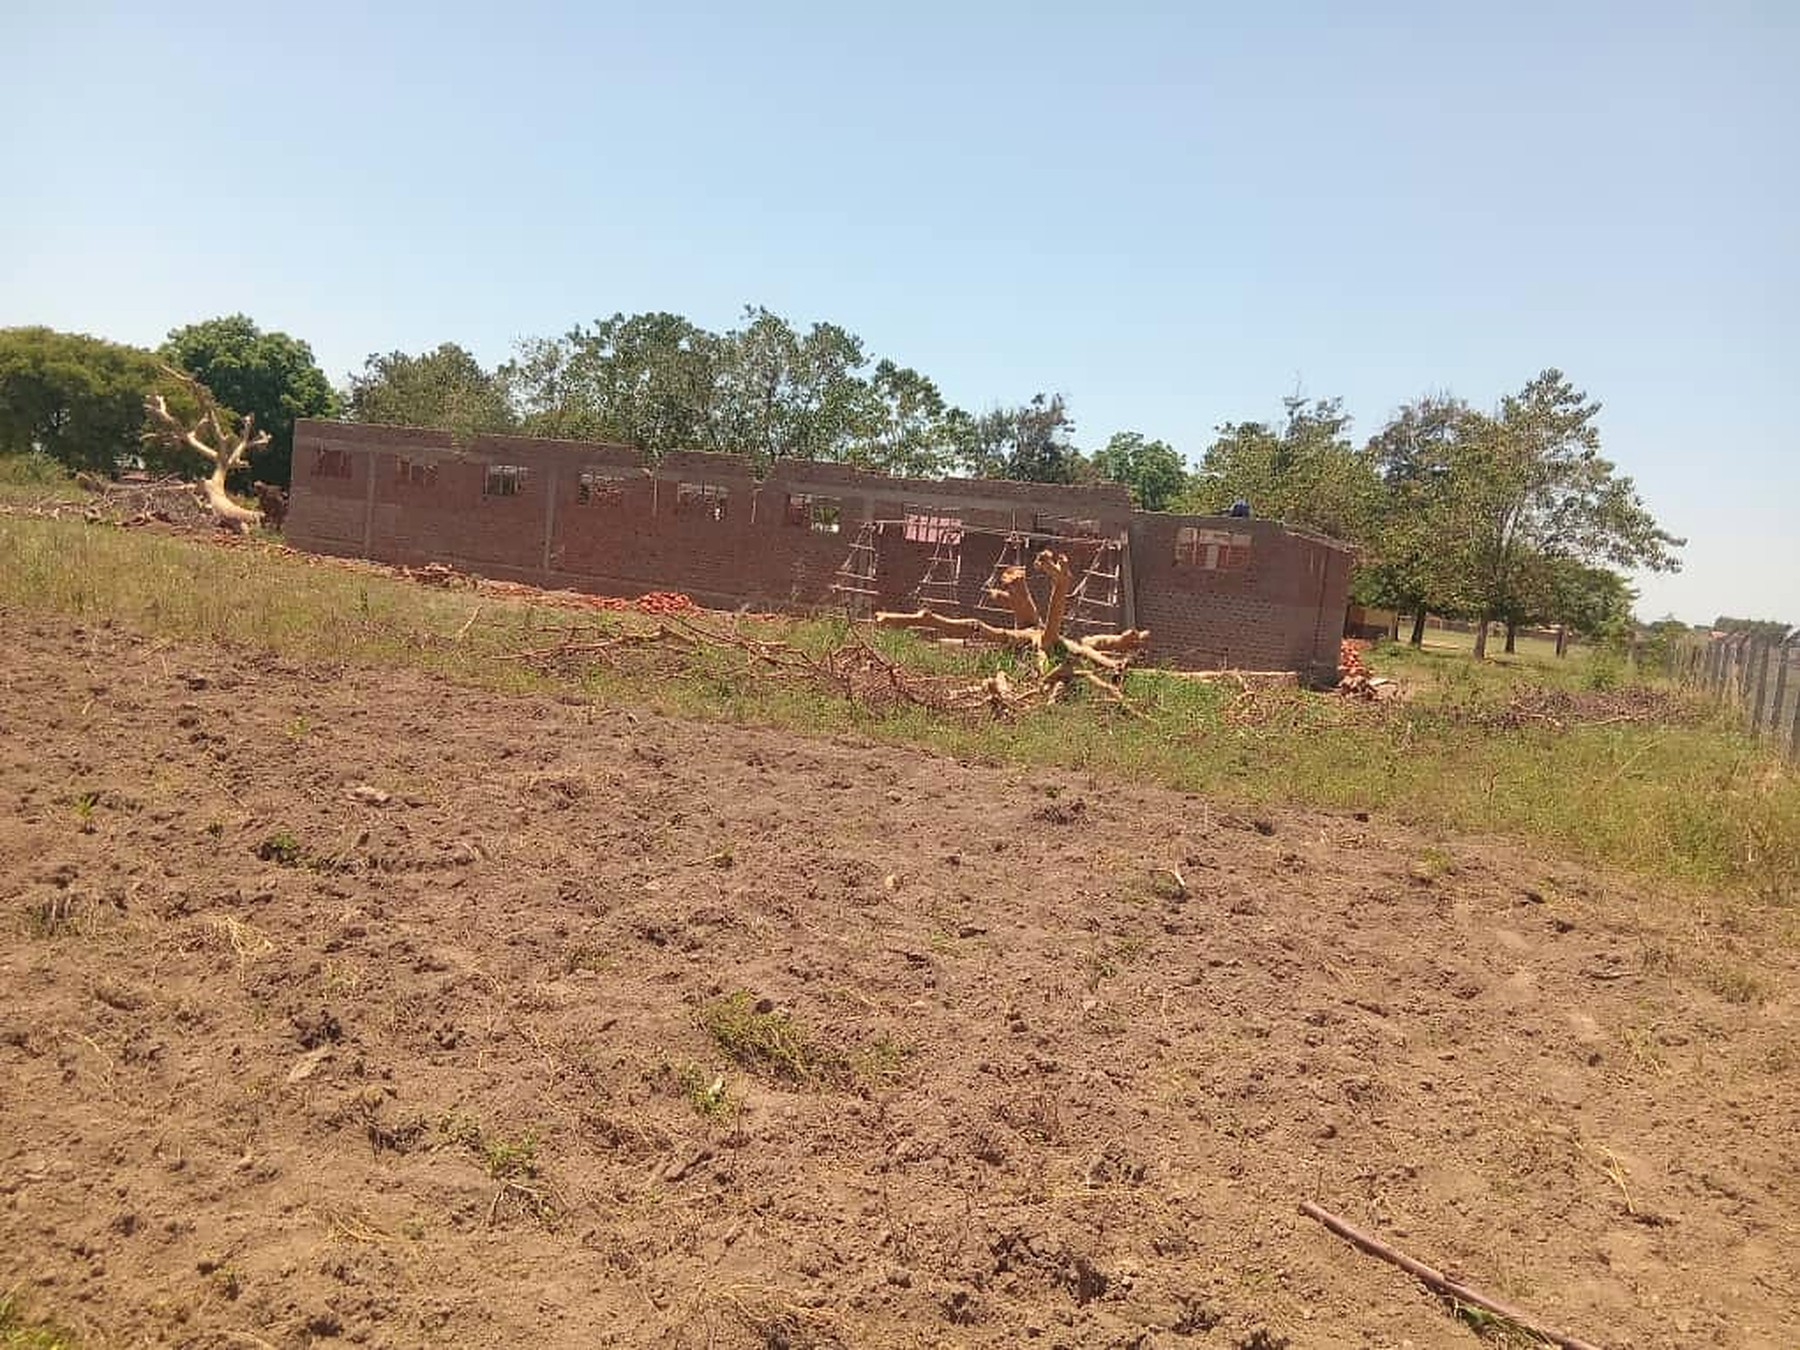
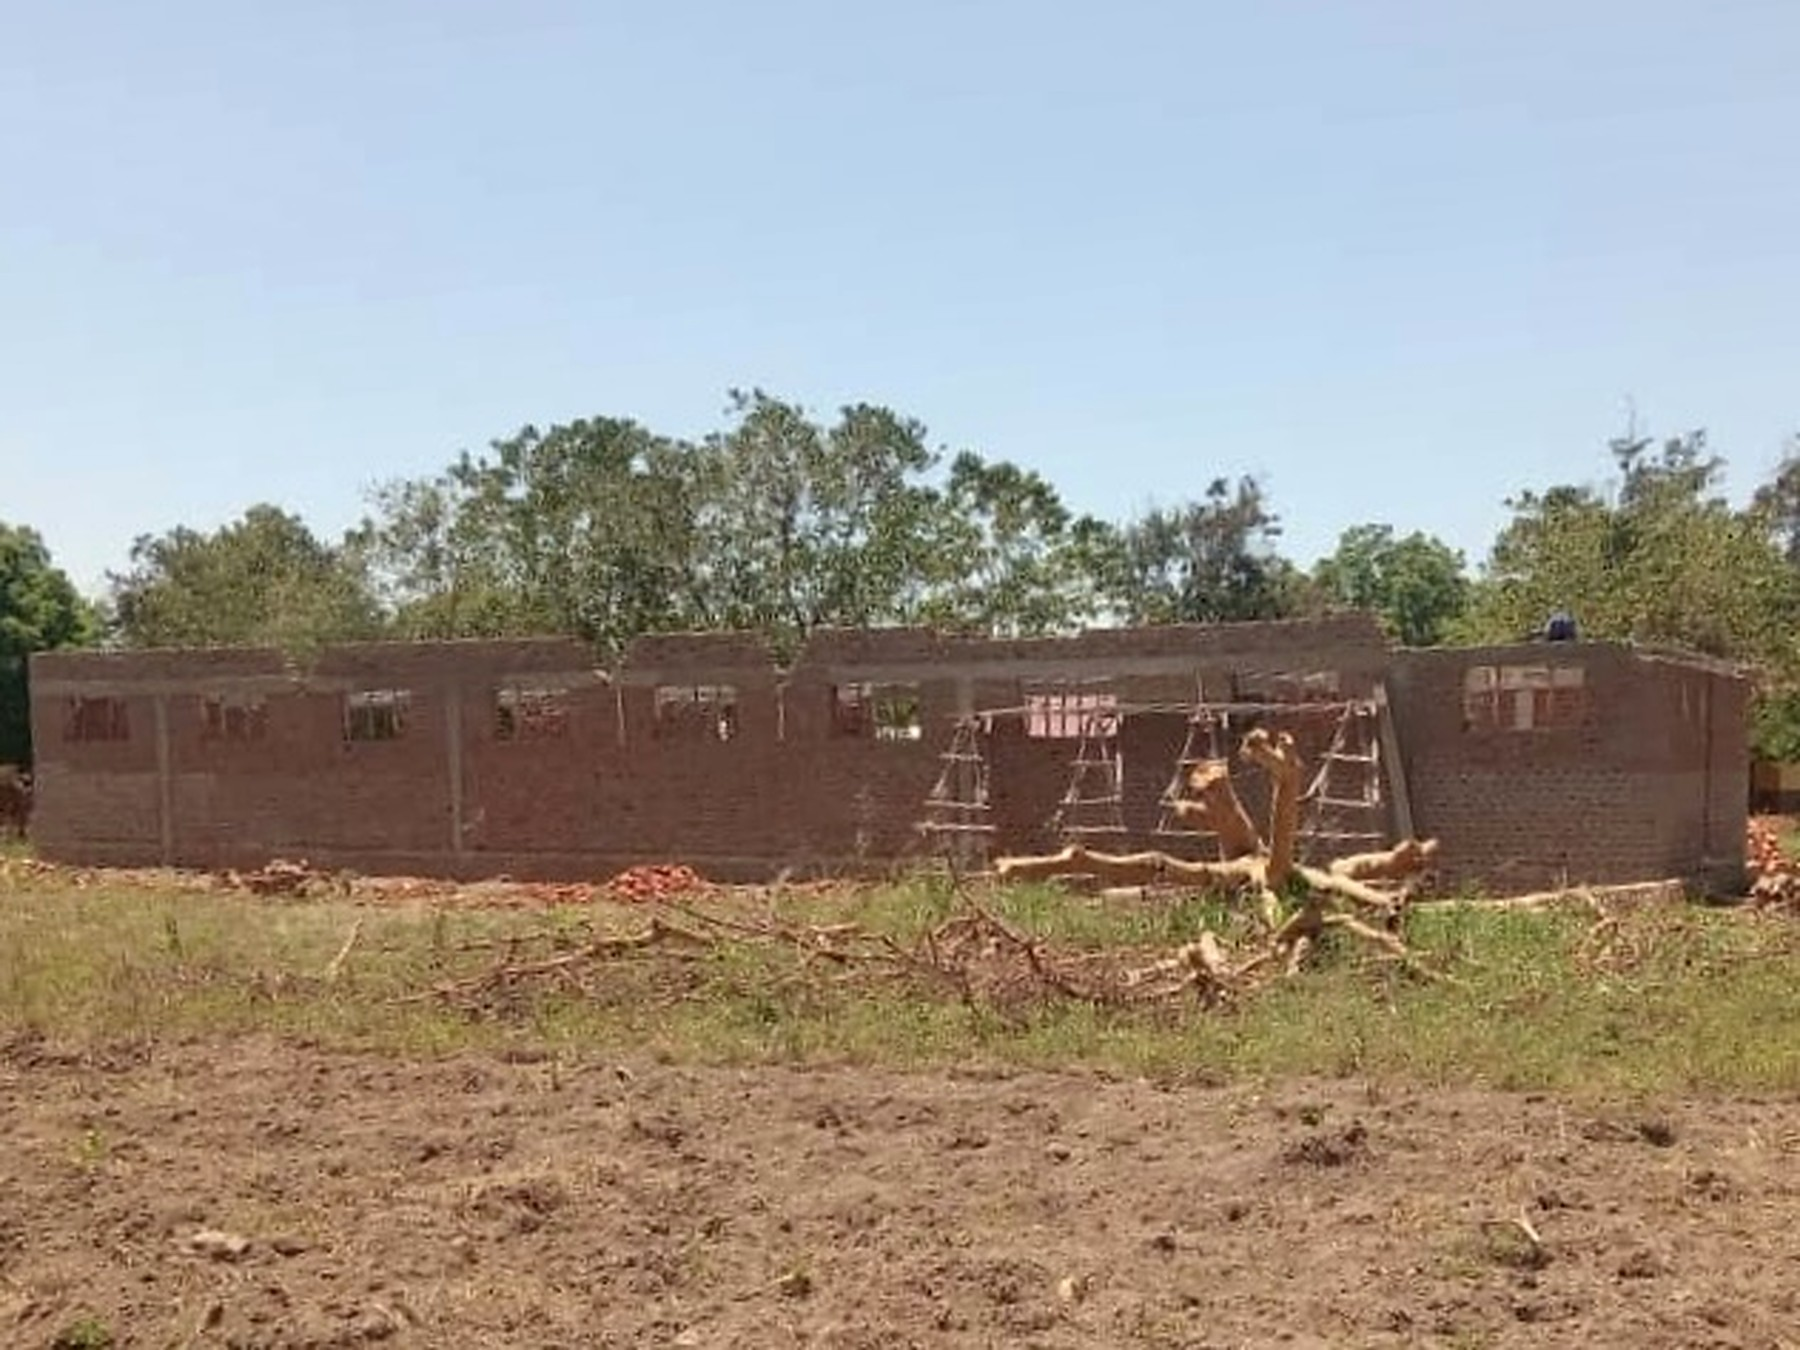
Swap in improved dormitory construction photos
Replaced progress photos 1, 2, and 3 with better versions the user
sent (photo 3 is a different shot entirely — brick walls with steel
reinforcement columns for the roof, replacing the close-up of a
builder on the wall). Same light enhancement pass applied for
consistency across the gallery. Photos 4 and 5 unchanged.

Claude-Session: https://claude.ai/code/session_01Lc2sNMCevPsrz5Hoi3uuD1

diff --git a/Dorms.html b/Dorms.html
@@ -205,7 +205,7 @@
             <img src="dorm-progress-2.jpg" alt="The dormitory walls seen from a distance, framed by trees">
           </figure>
           <figure>
-            <img src="dorm-progress-3.jpg" alt="A builder working along the top of the wall, reinforcement wire in place for the roof">
+            <img src="dorm-progress-3.jpg" alt="Brick walls with steel reinforcement columns rising for the roof, a builder working in the background">
           </figure>
           <figure>
             <img src="dorm-progress-4.jpg" alt="Wide view of the dormitory site with brick piles and a worker on the wall">
